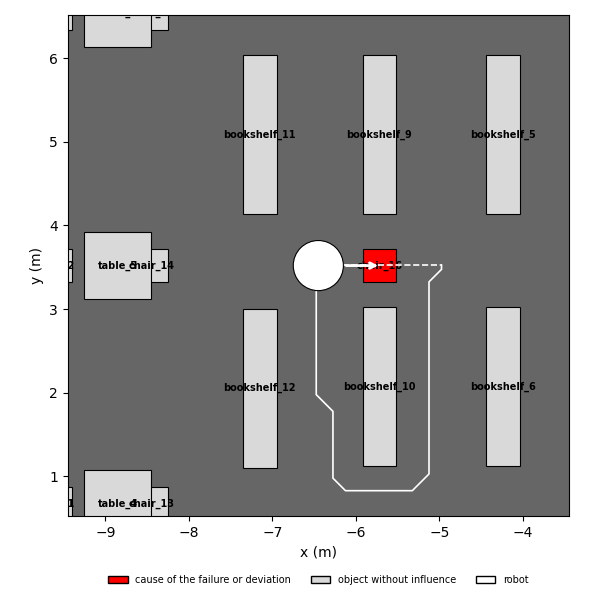
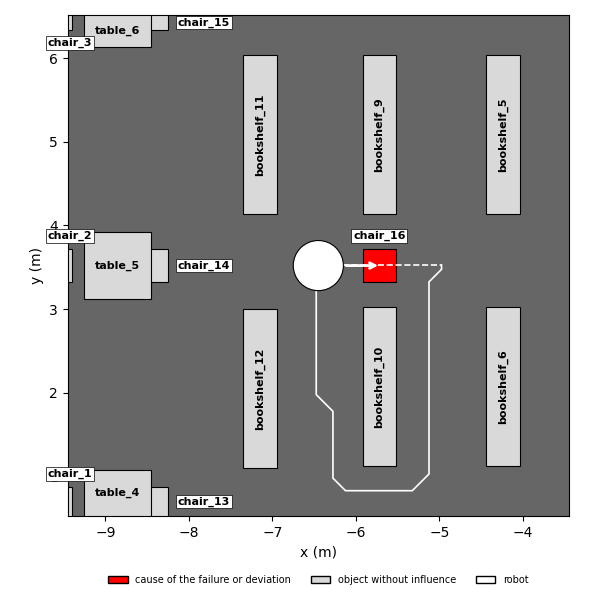
object names readable in the visual explanation

diff --git a/scripts/visualize.py b/scripts/visualize.py
@@ -33,6 +33,11 @@ COLOR_NEUTRAL = (0.85, 0.85, 0.85)   # light gray: the object has no influence
 COLOR_ROBOT = (1.0, 1.0, 1.0)
 COLOR_BACKGROUND = (0.4, 0.4, 0.4)
 
+#: Size of the object names in points.
+LABEL_FONT_SIZE = 8
+#: Distance in metres between an object and a name placed next to it.
+LABEL_GAP = 0.06
+
 
 class VisualExplanationGenerator:
     """
@@ -100,14 +105,22 @@ class VisualExplanationGenerator:
         ax.set_xlim(robot_x - self.view_radius, robot_x + self.view_radius)
         ax.set_ylim(robot_y - self.view_radius, robot_y + self.view_radius)
 
+        view = (robot_x - self.view_radius, robot_y - self.view_radius,
+                robot_x + self.view_radius, robot_y + self.view_radius)
+        boxes = {}
         for label, color in self.colors(core_explanation).items():
             obj = self.ontology.objects[label]
             ax.add_patch(mpatches.Rectangle(
                 (obj['x'] - obj['w'] / 2.0, obj['y'] - obj['h'] / 2.0),
                 obj['w'], obj['h'],
                 facecolor=color, edgecolor='black', linewidth=0.8, zorder=2))
-            ax.text(obj['x'], obj['y'], label, fontsize=7, fontweight='bold',
-                    ha='center', va='center', clip_on=True, zorder=3)
+            # The part of the object that lies inside the view.
+            box = (max(obj['x'] - obj['w'] / 2.0, view[0]),
+                   max(obj['y'] - obj['h'] / 2.0, view[1]),
+                   min(obj['x'] + obj['w'] / 2.0, view[2]),
+                   min(obj['y'] + obj['h'] / 2.0, view[3]))
+            if box[0] < box[2] and box[1] < box[3]:
+                boxes[label] = box
 
         if show_paths:
             for path, style in ((core_explanation.original_path, '--'),
@@ -127,6 +140,10 @@ class VisualExplanationGenerator:
                     robot_y + self.robot_radius * math.sin(robot_yaw)),
             arrowprops=dict(arrowstyle='->', color='white', lw=2))
 
+        robot_box = (robot_x - self.robot_radius, robot_y - self.robot_radius,
+                     robot_x + self.robot_radius, robot_y + self.robot_radius)
+        self._place_names(fig, ax, boxes, robot_box, view)
+
         ax.set_xlabel('x (m)')
         ax.set_ylabel('y (m)')
         ax.legend(
@@ -145,6 +162,82 @@ class VisualExplanationGenerator:
         if output_path:
             fig.savefig(output_path, dpi=self.dpi)
         return fig
+
+
+    @staticmethod
+    def _place_names(fig, ax, boxes, robot_box, view):
+        """
+        Write the identifier of every object where it can be read.
+
+        A name that fits inside its object is written there, turned by 90
+        degrees for an object that is taller than wide.  Any other name is
+        written next to its object on a white box, on the side where it
+        covers the least of the other objects, the robot and the names
+        already placed.
+        """
+        def overlap(a, b):
+            width = min(a[2], b[2]) - max(a[0], b[0])
+            height = min(a[3], b[3]) - max(a[1], b[1])
+            return width * height if width > 0 and height > 0 else 0.0
+
+        def outside(a):
+            width = max(view[0] - a[0], 0.0) + max(a[2] - view[2], 0.0)
+            height = max(view[1] - a[1], 0.0) + max(a[3] - view[3], 0.0)
+            return width * (a[3] - a[1]) + height * (a[2] - a[0])
+
+        # Size of each name in metres, measured on the drawn figure.
+        fig.canvas.draw()
+        to_data = ax.transData.inverted()
+        sizes = {}
+        for label in boxes:
+            probe = ax.text(0.0, 0.0, label, fontsize=LABEL_FONT_SIZE,
+                            fontweight='bold', transform=ax.transData)
+            extent = probe.get_window_extent().transformed(to_data)
+            sizes[label] = (extent.width, extent.height)
+            probe.remove()
+
+        style = dict(fontsize=LABEL_FONT_SIZE, fontweight='bold',
+                     ha='center', va='center', zorder=7)
+        placed = []
+        beside = []
+        for label, box in boxes.items():
+            width, height = sizes[label]
+            centre = ((box[0] + box[2]) / 2.0, (box[1] + box[3]) / 2.0)
+            room_x, room_y = box[2] - box[0], box[3] - box[1]
+            if width <= 0.85 * room_x and height <= 0.85 * room_y:
+                ax.text(*centre, label, **style)
+            elif height <= 0.85 * room_x and width <= 0.85 * room_y:
+                ax.text(*centre, label, rotation=90, **style)
+            else:
+                beside.append(label)
+                continue
+            placed.append(box)
+
+        for label in beside:
+            box = boxes[label]
+            width, height = sizes[label]
+            width, height = width + LABEL_GAP, height + LABEL_GAP  # white box
+            centre = ((box[0] + box[2]) / 2.0, (box[1] + box[3]) / 2.0)
+            candidates = [
+                (centre[0], box[3] + LABEL_GAP + height / 2.0),  # above
+                (centre[0], box[1] - LABEL_GAP - height / 2.0),  # below
+                (box[2] + LABEL_GAP + width / 2.0, centre[1]),   # right
+                (box[0] - LABEL_GAP - width / 2.0, centre[1]),   # left
+            ]
+
+            def covered(position):
+                area = (position[0] - width / 2.0, position[1] - height / 2.0,
+                        position[0] + width / 2.0, position[1] + height / 2.0)
+                others = [b for other, b in boxes.items() if other != label]
+                return (sum(overlap(area, b) for b in others + placed)
+                        + overlap(area, robot_box) + outside(area))
+
+            position = min(candidates, key=covered)
+            ax.text(*position, label, **style,
+                    bbox=dict(boxstyle='square,pad=0.15', facecolor='white',
+                              edgecolor='black', linewidth=0.5))
+            placed.append((position[0] - width / 2.0, position[1] - height / 2.0,
+                           position[0] + width / 2.0, position[1] + height / 2.0))
 
 
 def main():
